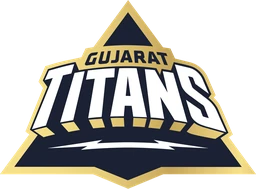
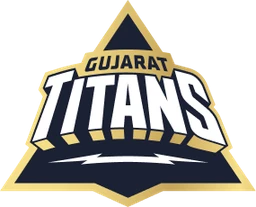
Team marks: official transparent crests drawn bare; monogram for former franchises
Crests from the iplt20 'Logooutline' set (DC keeps its existing transparent crest), trimmed
and saved as 256 px WebP. TeamBadge drops the white disc, team ring and code pill; former
franchises show the short code in the team colour. Team page header uses a 96 px crest.

diff --git a/web/src/components/player/team-badge.tsx b/web/src/components/player/team-badge.tsx
@@ -6,22 +6,17 @@ import { useState } from "react";
 import { badgesClash, getTeam } from "@/lib/tokens";
 import { cn } from "@/lib/utils";
 
-/** Rendered size (px) of the circular badge per size, and of the crest inside it. */
-const DIM = {
-  sm: { box: 20, img: 16 },
-  md: { box: 32, img: 24 },
-  lg: { box: 40, img: 30 },
-  xl: { box: 56, img: 42 },
-} as const;
+/** Rendered box (px) per size; the crest is fitted (contain) inside it. */
+const DIM = { sm: 20, md: 32, lg: 44, xl: 64, "2xl": 96 } as const;
 
 export type TeamBadgeSize = keyof typeof DIM;
 
 /**
- * Team identity badge (§2.3). Crest from /public/teams on a light disc with a team-colour ring;
- * historical franchises and missing/broken logos fall back to the monogram in team colours.
- * `sm` is an inline pill (crest + code) for rows; `md`+ are circular crests (code is sr-only).
- * Pass `opponent` + `side="away"` in a two-team context to apply the clash rule: a clashing away
- * badge swaps its ring to the secondary colour and dashes it.
+ * Team identity mark (§2.3, owner redesign 2026-10-02): the official transparent crest from
+ * /public/teams drawn bare on the page background (no disc, ring or tile). Historical
+ * franchises and missing/broken logos show the short code as a monogram in the team colour.
+ * `sm` adds the code next to the crest for rows; `md`+ show the crest alone (code is sr-only).
+ * `opponent` + `side="away"` still flag a colour clash (`data-clash`) for two-team contexts.
  */
 export function TeamBadge({
   team,
@@ -42,40 +37,28 @@ export function TeamBadge({
   const t = getTeam(team);
   const [broken, setBroken] = useState(false);
   const clash = Boolean(opponent && side === "away" && badgesClash(opponent, team));
-  const ring = clash ? t.secondary : t.primary;
   const d = DIM[size];
   const withCode = showCode ?? size === "sm";
   const useLogo = Boolean(t.logo) && !broken;
 
-  const disc = useLogo ? (
+  const mark = useLogo ? (
+    <Image
+      aria-hidden
+      src={t.logo!}
+      alt=""
+      width={d}
+      height={d}
+      onError={() => setBroken(true)}
+      className="shrink-0 object-contain"
+      style={{ width: d, height: d }}
+    />
+  ) : withCode && size === "sm" ? null : (
     <span
       aria-hidden
-      className={cn("relative flex shrink-0 items-center justify-center overflow-hidden rounded-full bg-white", clash && "outline-dashed outline-1 outline-offset-1")}
-      style={{ width: d.box, height: d.box, boxShadow: `0 0 0 ${size === "sm" ? 1.5 : 2}px ${ring}`, outlineColor: clash ? ring : undefined }}
+      className="font-condensed flex shrink-0 items-center justify-center leading-none font-bold tracking-tight text-[var(--mono-l)] dark:text-[var(--mono-d)]"
+      style={{ width: d, height: d, fontSize: Math.max(10, Math.round(d * 0.36)), ["--mono-l" as string]: t.chartLight, ["--mono-d" as string]: t.chartDark }}
     >
-      <Image
-        src={t.logo!}
-        alt=""
-        width={d.img}
-        height={d.img}
-        onError={() => setBroken(true)}
-        className="object-contain"
-        style={{ width: d.img, height: d.img }}
-      />
-    </span>
-  ) : (
-    <span
-      aria-hidden
-      className={cn("font-condensed flex shrink-0 items-center justify-center rounded-full leading-none font-bold", size === "sm" ? "text-[9px]" : size === "md" ? "text-[11px]" : size === "lg" ? "text-[13px]" : "text-base")}
-      style={{
-        width: d.box,
-        height: d.box,
-        backgroundColor: t.primary,
-        color: t.onPrimary,
-        boxShadow: clash ? `0 0 0 2px var(--background), 0 0 0 4px ${ring}` : `inset 0 -2px 0 ${t.secondary}`,
-      }}
-    >
-      {size === "sm" && withCode ? "" : t.short.slice(0, 4)}
+      {t.short.slice(0, 4)}
     </span>
   );
 
@@ -88,11 +71,11 @@ export function TeamBadge({
       data-historical={t.historical || undefined}
       className={cn(
         "inline-flex shrink-0 items-center",
-        withCode && "h-6 gap-1 rounded-full bg-surface-2 py-0.5 pr-2 pl-0.5 ring-1 ring-border ring-inset",
+        withCode && "gap-1",
         className,
       )}
     >
-      {disc}
+      {mark}
       {withCode ? (
         <span aria-hidden className="font-condensed text-[11px] leading-none font-bold tracking-wide text-foreground">
           {t.short}

diff --git a/web/src/features/season/components/team-view.tsx b/web/src/features/season/components/team-view.tsx
@@ -259,7 +259,7 @@ export function TeamView({
       {/* Team page header: 2 px top border in team colour (§2.3 allowed accent). */}
       <header className="mb-4 rounded-xl border border-border bg-card p-4 shadow-e1" style={{ borderTop: `2px solid ${theme.primary}` }}>
         <div className="flex items-center gap-4">
-          <TeamBadge team={team.short_code} size="xl" />
+          <TeamBadge team={team.short_code} size="2xl" />
           <div className="min-w-0">
             <p className="text-overline text-muted-foreground">
               {team.active ? "Current franchise" : "Former franchise"} · <span className="num">{seasonSpan(team.seasons)}</span>
